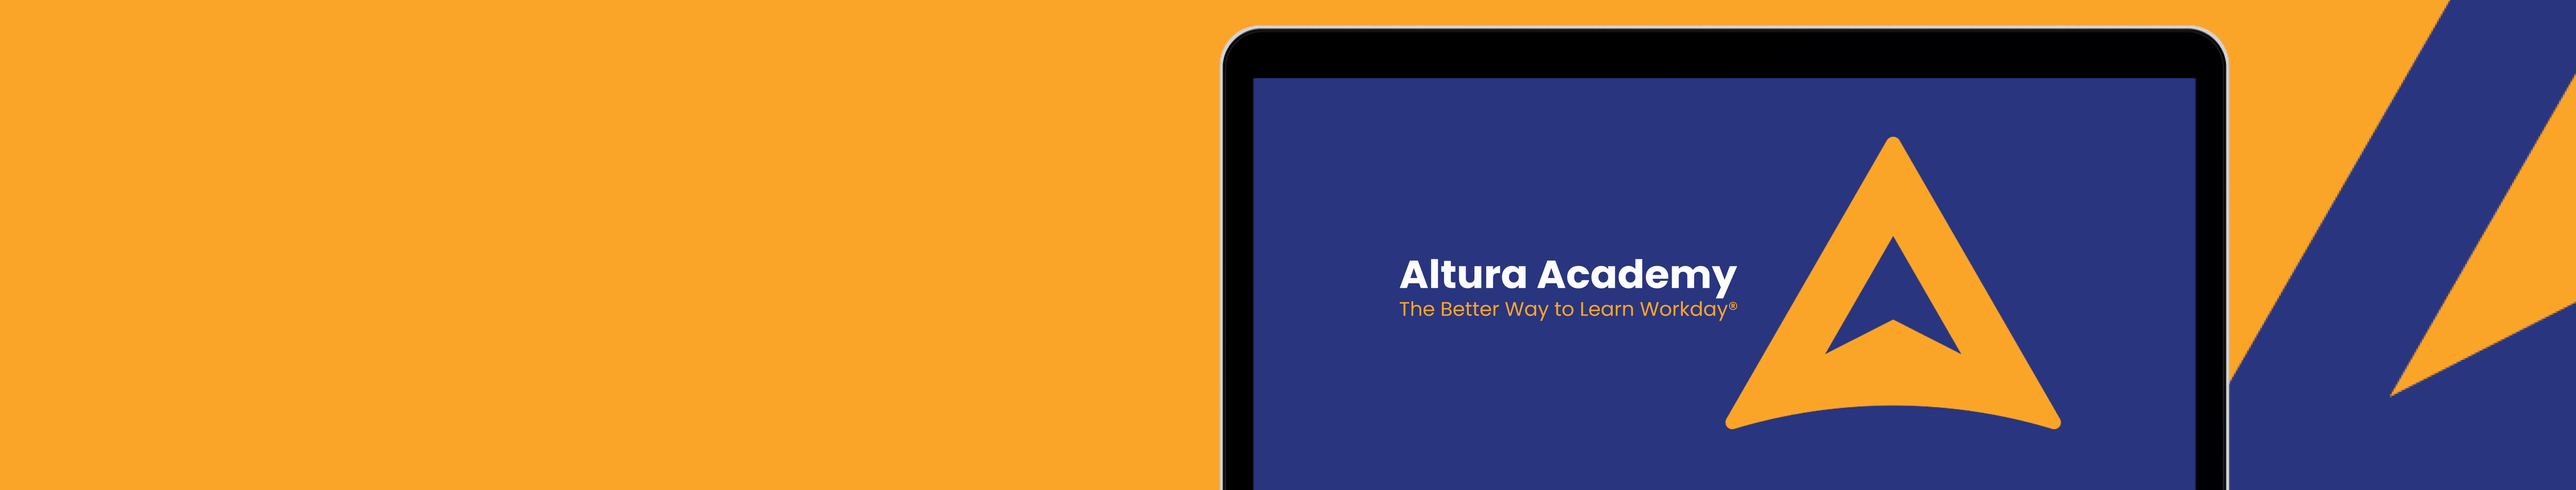
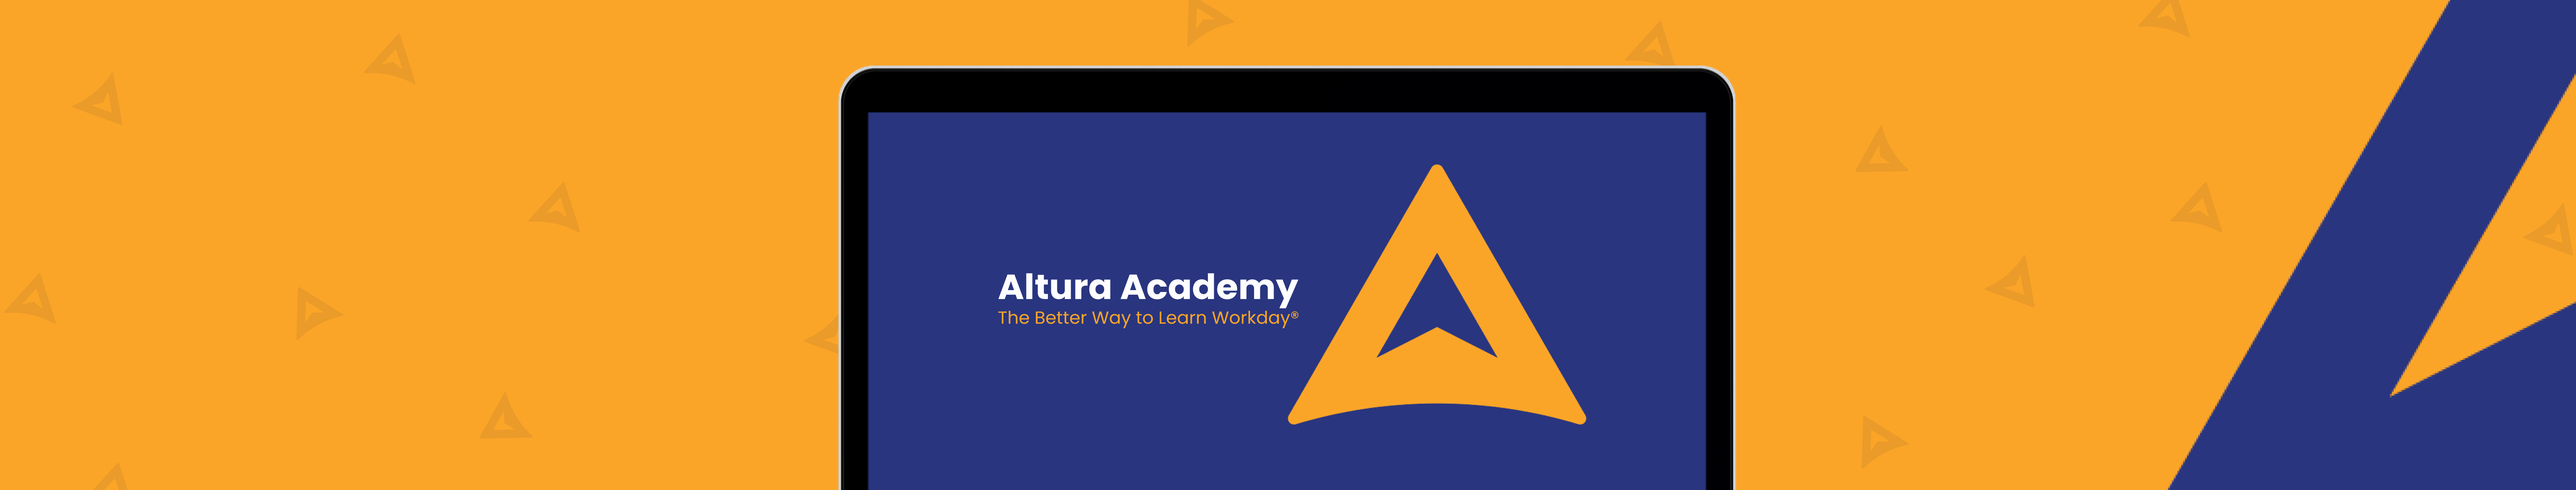
imgs

diff --git a/style.css b/style.css
@@ -124,7 +124,7 @@
   }
 
   #simple-wx {
-    background-image: url(assets/images/Simple\ WX.png);
+    background-image: url(assets/images/SIMPLE-WX-V2.png);
     background-repeat: no-repeat;
     background-position: center;
     background-size: cover;
